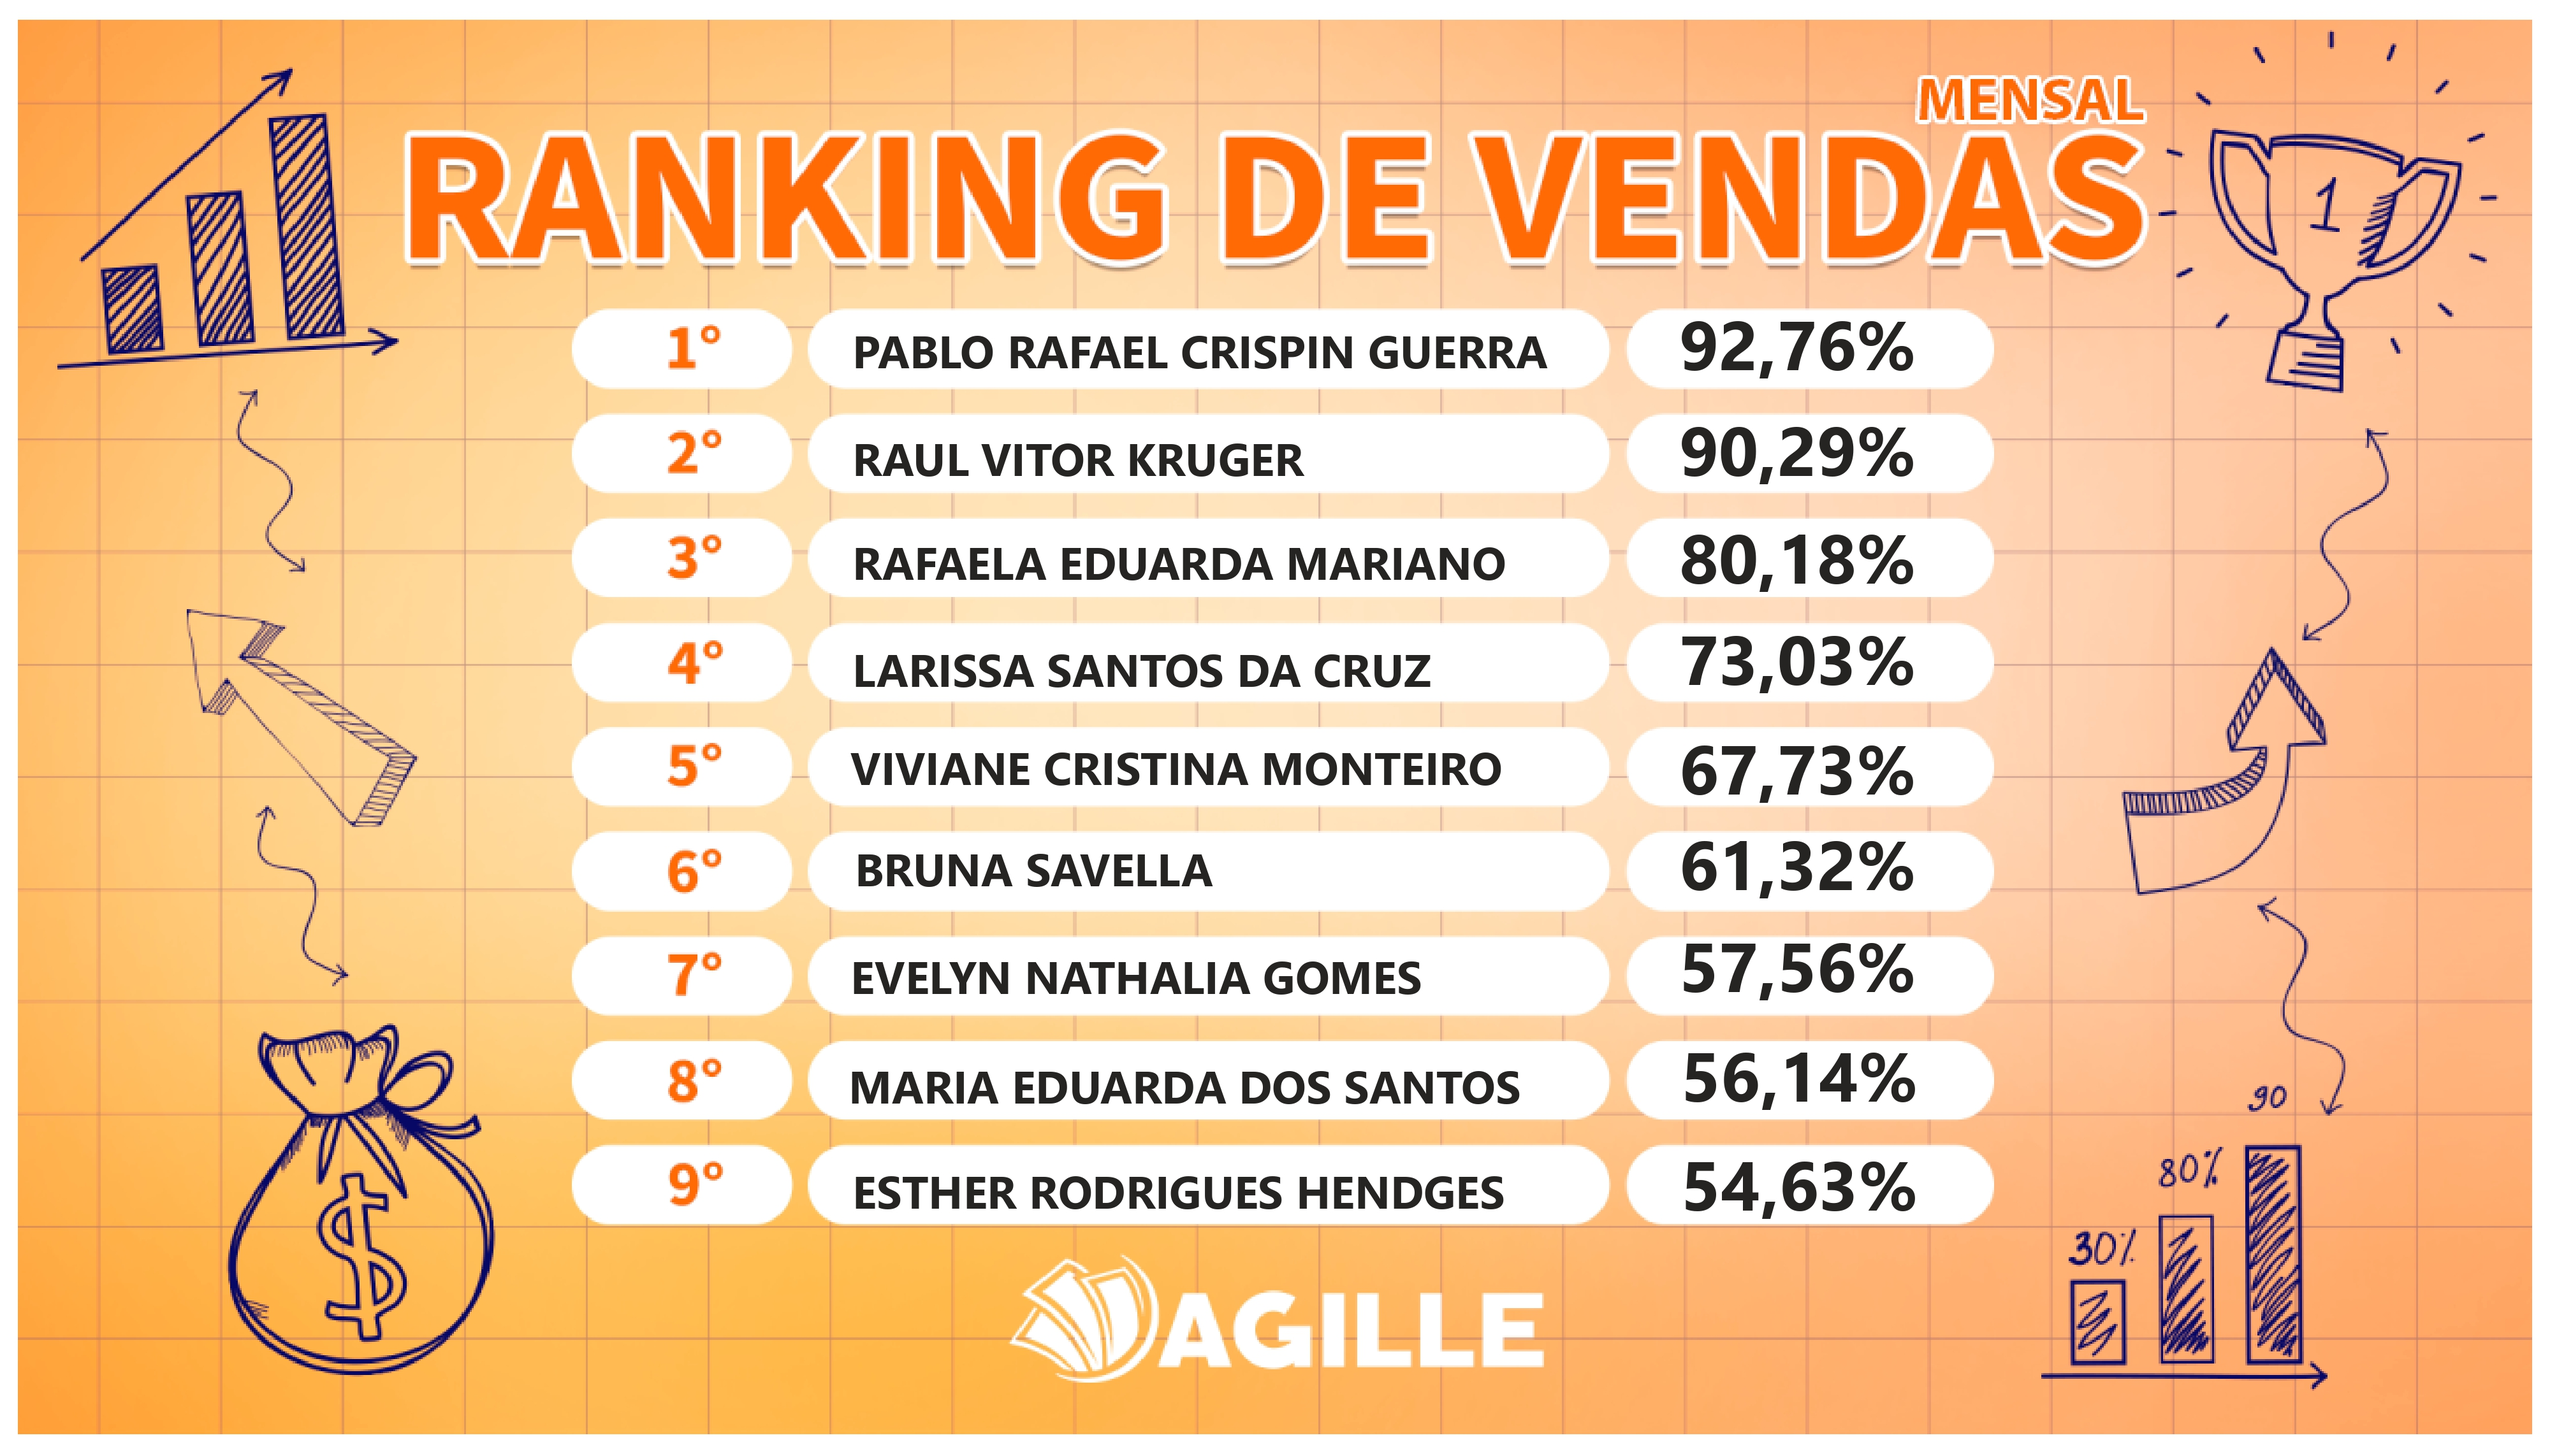
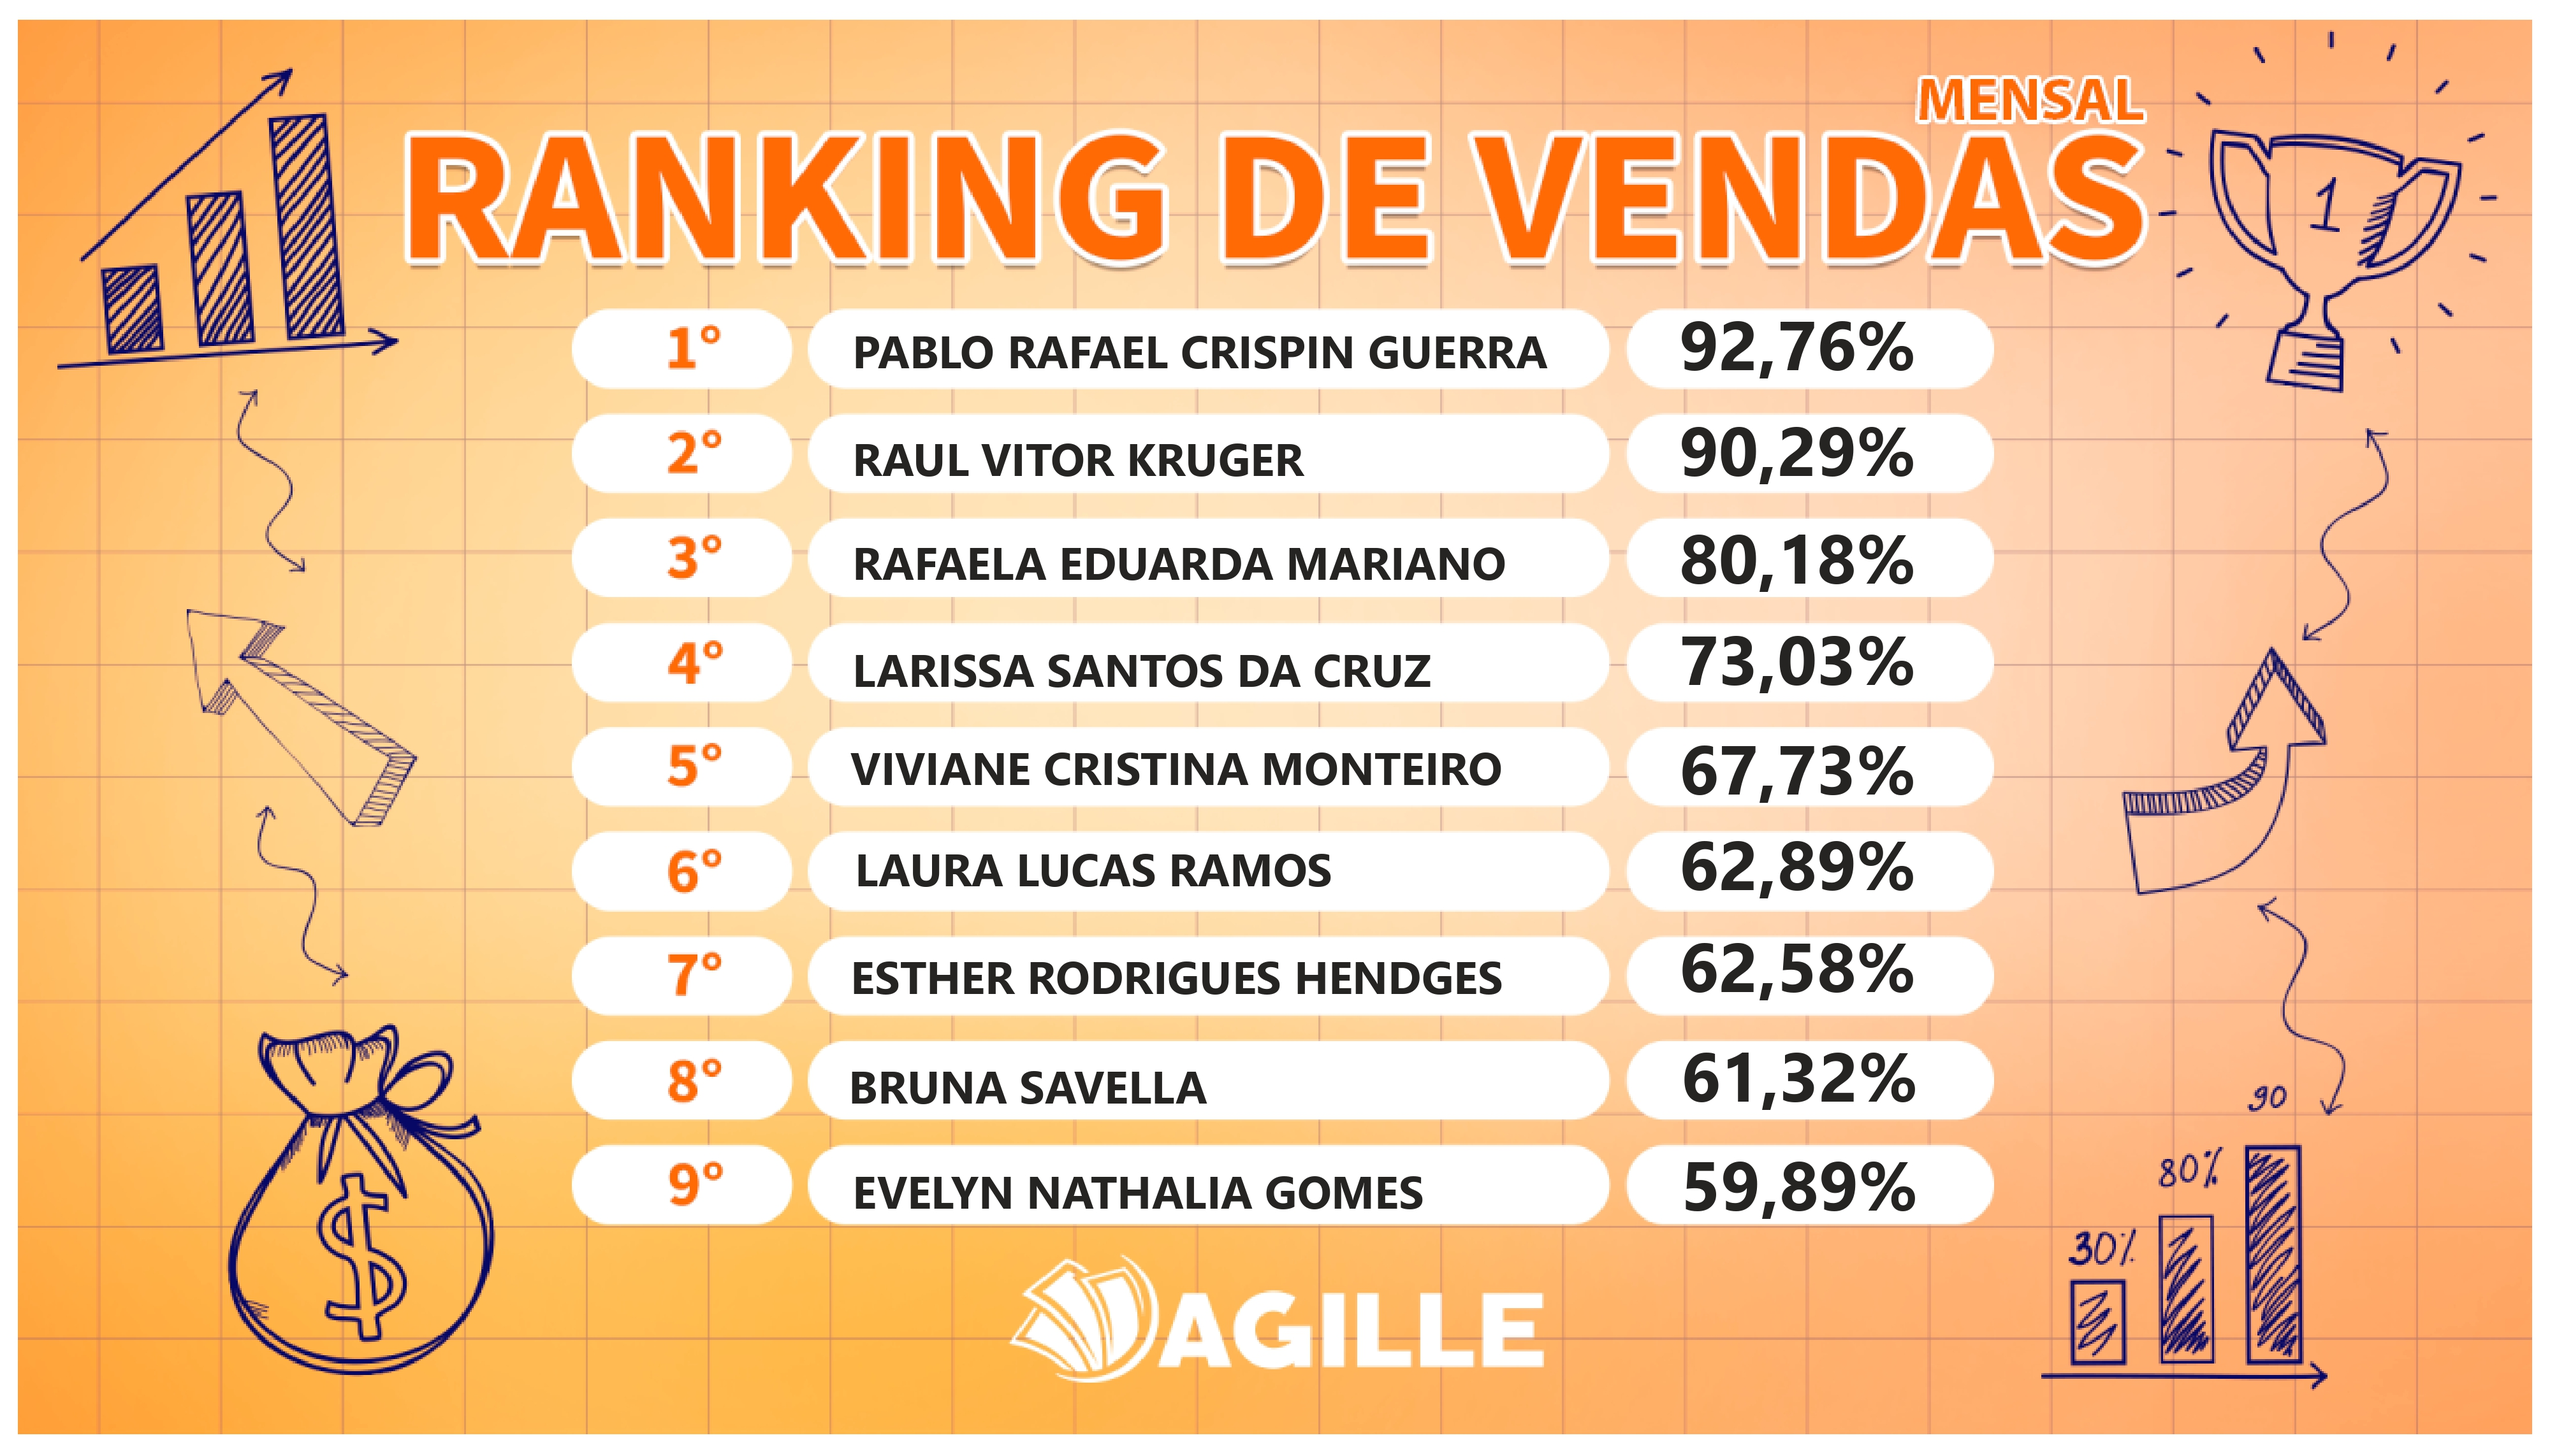
24102022²

diff --git a/index.html b/index.html
@@ -19,9 +19,9 @@
 			<div class="carousel-item active" data-bs-interval="15000">
 				<img src="img/rank (1).jpg" class="d-block w-100">
 			</div>
-			<!-- <div class="carousel-item" data-bs-interval="15000">
+			<div class="carousel-item" data-bs-interval="15000">
 				<img src="img/rank (2).jpg" class="d-block w-100">
-			</div> -->
+			</div>
 			<div class="carousel-item" data-bs-interval="15000">
 				<img src="img/rank (3).jpg" class="d-block w-100">
 			</div>
